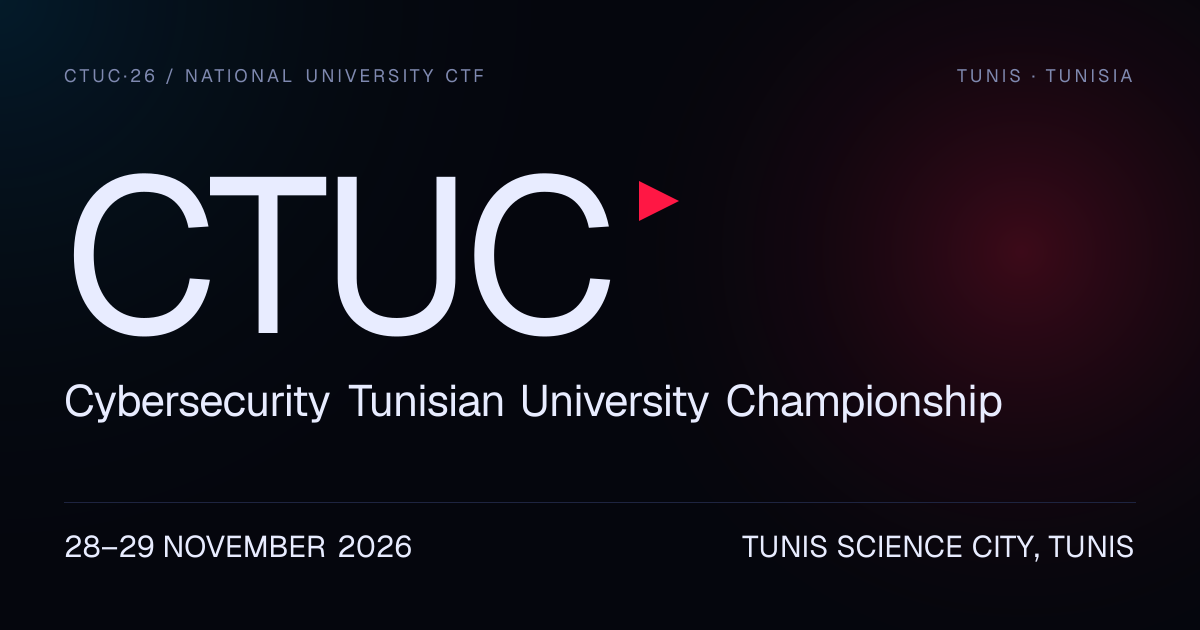
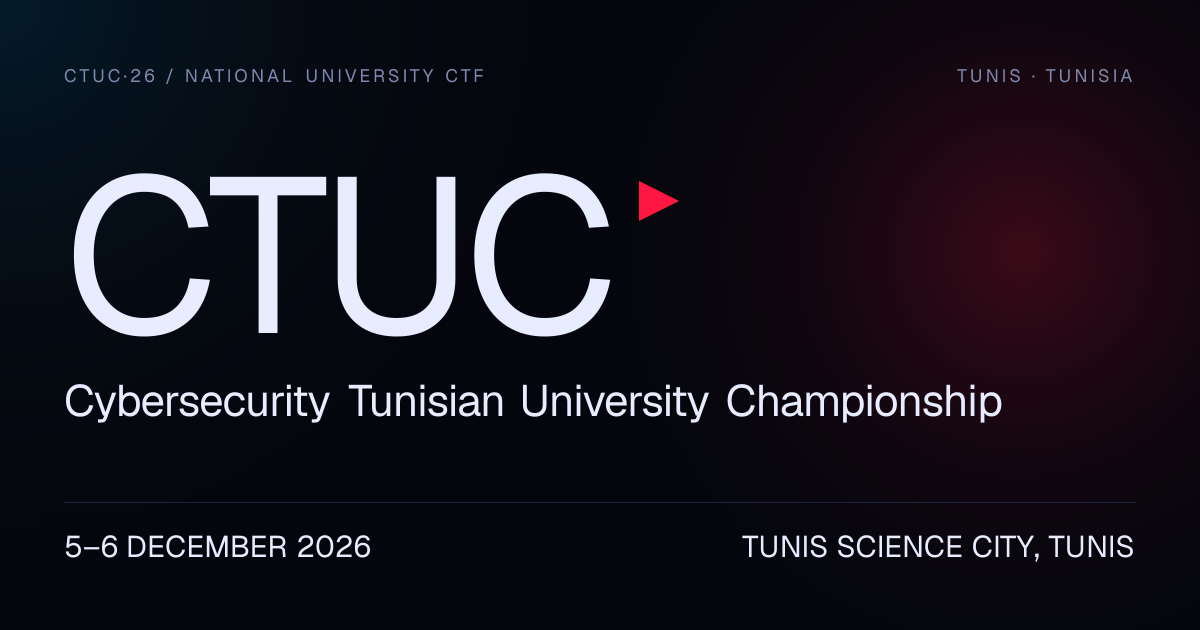
Move the championship to 5–6 December 2026
- Update the event dates, countdown, schedule, rules and README
- Update the dates in search data and the share image

Changed region(s): [[0.0308, 0.8444, 0.3392, 0.9048]]

diff --git a/components/sections/schedule.tsx b/components/sections/schedule.tsx
@@ -20,16 +20,16 @@ export function Schedule() {
             <Reveal className="mt-10">
               <p aria-hidden>
                 <span className="block whitespace-nowrap font-condensed text-[min(44vw,15rem)] font-black leading-[0.78] tracking-[-0.03em] md:text-[min(18vw,15rem)]">
-                  28–29
+                  5–6
                 </span>
                 <span className="mt-6 flex flex-wrap items-baseline gap-x-3 gap-y-1">
-                  <span className="font-editorial text-2xl font-semibold tracking-tight md:text-3xl">November</span>
+                  <span className="font-editorial text-2xl font-semibold tracking-tight md:text-3xl">December</span>
                   <span className="font-editorial text-2xl tracking-tight text-mute md:text-3xl">2026</span>
                   <span className="annotation text-signal">{EVENT.weekday}</span>
                 </span>
               </p>
               <p className="sr-only">
-                <time dateTime="2026-11-28">{EVENT.weekday}, {EVENT.dateLabel}</time>
+                <time dateTime={EVENT.startDate}>{EVENT.weekday}, {EVENT.dateLabel}</time>
               </p>
             </Reveal>
             <p className="mt-10 max-w-[38ch] leading-relaxed text-mute">

diff --git a/data/rules.ts b/data/rules.ts
@@ -20,7 +20,7 @@ export const RULE_SECTIONS: RuleSection[] = [
     scope: "What the championship is, when and where it takes place, and the disciplines involved.",
     body: [
       "CTUC – Cybersecurity Tunisian University Championship is a national Capture The Flag competition for university students, powered by the Fédération Tunisienne des Sports Scolaires et Universitaires (FTSSU).",
-      "It runs overnight from 28 to 29 November 2026 at Tunis Science City, Tunisia.",
+      "It runs overnight from 5 to 6 December 2026 at Tunis Science City, Tunisia.",
       "Two competitions run in parallel: a Beginner CTF and an Advanced CTF.",
       "Challenges are drawn from eight classifications: Web, Pwn, Reverse Engineering, Cryptography, Forensics, OSINT, Hardware and Miscellaneous.",
     ],

diff --git a/data/event.ts b/data/event.ts
@@ -11,12 +11,12 @@ export const EVENT = {
   tagline: "Find the flaw. Take the flag.",
   edition: "CTUC·26",
   startsAt: EVENT_START_ISO,
-  dateLabel: "28–29 November 2026",
+  dateLabel: "5–6 December 2026",
   /** The day the championship starts; it runs overnight and ends on `endDate`. */
-  startLabel: "28 November 2026",
-  startDate: "2026-11-28",
-  endDate: "2026-11-29",
-  dateCompact: "28–29.11.2026",
+  startLabel: "5 December 2026",
+  startDate: "2026-12-05",
+  endDate: "2026-12-06",
+  dateCompact: "05–06.12.2026",
   weekday: "Saturday to Sunday",
 
   venue: {

diff --git a/components/effects/championship-mark.tsx b/components/effects/championship-mark.tsx
@@ -94,7 +94,7 @@ export function ChampionshipMark({ className }: { className?: string }) {
       <g className="mark-ring">
         <text className="fill-mute font-mono" fontSize="9.5" letterSpacing="3.2">
           <textPath href="#mark-text-path">
-            CYBERSECURITY TUNISIAN UNIVERSITY CHAMPIONSHIP · 28–29.11.2026 · TUNIS SCIENCE CITY · BEGINNER + ADVANCED ·
+            CYBERSECURITY TUNISIAN UNIVERSITY CHAMPIONSHIP · 05–06.12.2026 · TUNIS SCIENCE CITY · BEGINNER + ADVANCED ·
           </textPath>
         </text>
       </g>

diff --git a/lib/constants.ts b/lib/constants.ts
@@ -2,7 +2,7 @@
  * Single source of truth for the championship start.
  * Africa/Tunis is UTC+01:00 year-round (no DST).
  */
-export const EVENT_START_ISO = "2026-11-28T09:00:00+01:00";
+export const EVENT_START_ISO = "2026-12-05T09:00:00+01:00";
 export const EVENT_START_MS = Date.parse(EVENT_START_ISO);
 export const EVENT_TIMEZONE = "Africa/Tunis";
 

diff --git a/README.md b/README.md
@@ -7,7 +7,7 @@ Jeopardy-style security challenges in web, binary exploitation, reverse engineer
 hardware and more. Two competitions run in parallel: a **Beginner CTF** and an **Advanced CTF**, so every student has
 a place, whatever their level or field of study.
 
-- **Date:** Saturday 28 to Sunday 29 November 2026 (overnight)
+- **Date:** Saturday 5 to Sunday 6 December 2026 (overnight)
 - **Entry:** free
 - **Venue:** Tunis Science City, Tunis
 - **Who can join:** students of any Tunisian university
